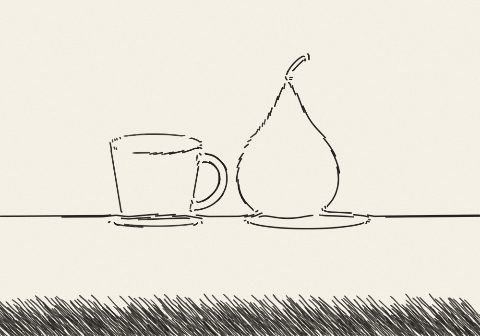
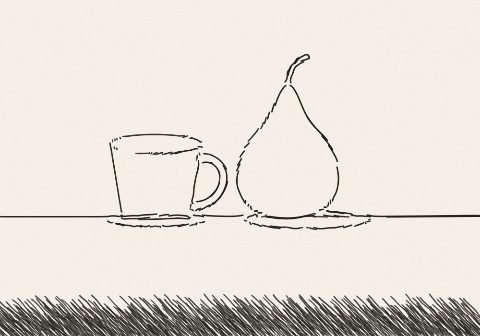
큰 사진 보정: 고흐풍은 긴 소용돌이 획으로, 펜은 화가처럼 덩어리 단순화, 그림붓은 층마다 뭉갠 목표를 본다
사용자 원본 크기 사진(1100px 로 축소)에서 고흐풍이 비늘 모자이크, 리천 펜화가 고리 부스러기로 나온 문제.
- 그림붓(담채·유화·임파스토): 층마다 목표 색을 붓 크기만큼 뭉갠 것을 본다(Hertzmann). 잔결에서는 넓은 범위
  방향(반경 28)을 따라 큰 흐름을 타고, 임파스토는 색 차 문턱 110·최소 네 걸음으로 긴 획이 된다
- 펜: 잔결 영역을 크게 뭉개고 덩어리 대비만 키운다. 잔결 안의 획은 짧지만 화면 크기에 비례, 방향은 기준 각도 ±0.6
  또는 확실한 지역 방향. 고리선은 중간 톤에서 30% 만
- 포스터라이즈·어두운 곳만 남기기·뭉갠 톤 경계 윤곽·적응형 여백 문턱은 시험 후 뺐다 (위장 무늬·언덕 비워짐). CLAUDE.md 에 기록
- 갤러리 예시 그림 재생성

Claude-Session: https://claude.ai/code/session_01Hvnc9GgokccTnGmXxLxTkb

diff --git a/src/render.ts b/src/render.ts
@@ -209,7 +209,7 @@ function manualField(guides: DirectionGuide[], radiusPct: number, w: number, h: 
 }
 
 /** aniso: 넓은 범위(반경 28)의 방향 확실성 — 잔결이라도 물결처럼 한 방향으로 흐르면 높다 (잎 뭉치는 낮다) */
-interface Field { tx: Float32Array; ty: Float32Array; coh: Float32Array; man: Float32Array; aniso: Float32Array; raw: Float32Array }
+interface Field { tx: Float32Array; ty: Float32Array; coh: Float32Array; man: Float32Array; aniso: Float32Array; raw: Float32Array; /** 넓은 범위(반경 28) 방향 — 그림붓이 잔결을 무시하고 큰 흐름을 따를 때 */ ctx: Float32Array; cty: Float32Array }
 
 /**
  * 면의 방향장 (DAP 의 Feature Follow): 세 채널 구조 텐서로 각 화소 주변의 지배적 경계 방향을 구한다.
@@ -223,10 +223,12 @@ function orientationField(grads: Array<{ gx: Float32Array; gy: Float32Array }>, 
   const fine = [boxBlur(jxx, w, h, 7), boxBlur(jyy, w, h, 7), boxBlur(jxy, w, h, 7)];
   const coarse = [boxBlur(jxx, w, h, 28), boxBlur(jyy, w, h, 28), boxBlur(jxy, w, h, 28)];
   const tx = new Float32Array(N), ty = new Float32Array(N), coh = new Float32Array(N), man = new Float32Array(N), aniso = new Float32Array(N), raw = new Float32Array(N);
+  const ctxA = new Float32Array(N), ctyA = new Float32Array(N);
   for (let i = 0; i < N; i++) {
     const ca = coarse[0][i] - coarse[1][i], cb = 2 * coarse[2][i], ce = coarse[0][i] + coarse[1][i];
     const cc = ce > 0.004 ? Math.sqrt(ca * ca + cb * cb) / (ce + 1e-4) : 0;
     aniso[i] = cc;
+    { const thc = 0.5 * Math.atan2(cb, ca) + Math.PI / 2; ctxA[i] = Math.cos(thc); ctyA[i] = Math.sin(thc); }
     let a = fine[0][i] - fine[1][i], b = 2 * fine[2][i], e = fine[0][i] + fine[1][i];
     let c = e > 0.02 ? Math.sqrt(a * a + b * b) / (e + 1e-4) : 0;
     raw[i] = c; // 잔결 억제 전의 지역 확실성 (잎 뭉치 안의 짧은 획 방향에 씀)
@@ -245,7 +247,7 @@ function orientationField(grads: Array<{ gx: Float32Array; gy: Float32Array }>, 
     tx[i] = Math.cos(th); ty[i] = Math.sin(th);
     coh[i] = c;
   }
-  return { tx, ty, coh, man, aniso, raw };
+  return { tx, ty, coh, man, aniso, raw, ctx: ctxA, cty: ctyA };
 }
 
 /** 1차원 부드러운 난수 (-1~1): 가장자리 흐림의 불규칙한 경계에 씀 */
@@ -456,6 +458,8 @@ interface Ctx {
   tol: number;
   /** 시작점 i 의 획 색 */
   colorAt: (i: number) => RGB;
+  /** 그림붓(담채·유화·임파스토)인지 — 잔결을 무시하고 큰 흐름을 따른다 */
+  painty: boolean;
 }
 
 /**
@@ -466,10 +470,13 @@ function dirAt(c: Ctx, i: number, rot: number): [number, number] {
   const wf = Math.max(c.ff * c.field.coh[i], c.field.man[i]);
   let th: number;
   const tex = c.texture[i];
-  if (tex > 0.5 && c.field.man[i] < 0.1) {
+  if (c.painty && tex > 0.3 && c.field.man[i] < 0.1) {
+    // 그림붓: 잎 하나하나가 아니라 나무 덩어리·물결의 큰 흐름을 따른다 (고흐의 소용돌이). 흐름이 없으면 기준 각도 주변
+    th = c.field.aniso[i] > 0.12 ? Math.atan2(c.field.cty[i], c.field.ctx[i]) : c.base + (c.rng() - 0.5) * 0.8;
+  } else if (tex > 0.5 && c.field.man[i] < 0.1) {
     // 잔결(잎 뭉치): 짧은 획이 잎 무리의 지역 방향을 따르면 잎 질감이 된다. 방향이 없으면 기준 각도 주변에서 흩어진다
     const r = c.field.raw[i];
-    th = r > 0.35 ? Math.atan2(c.field.ty[i], c.field.tx[i]) : c.base + (c.rng() - 0.5) * 1.2;
+    th = r > 0.4 ? Math.atan2(c.field.ty[i], c.field.tx[i]) : c.base + (c.rng() - 0.5) * 0.6;
   } else if (wf < 0.12) th = c.base;
   else {
     const a2 = 2 * Math.atan2(c.field.ty[i], c.field.tx[i]), b2 = 2 * c.base;
@@ -589,7 +596,8 @@ function edgePass(c: Ctx, mag: Float32Array, mass: { mag: Float32Array; gx: Floa
   const maxLen = Math.min(w, h) * 0.35;
   const r = (lw * widthMul) / 2;
   // 잔결(나뭇잎)에서는 센 경계만 남기고, 대신 뭉갠 밝기의 경계(잎 뭉치의 덩어리 윤곽)를 살린다 — 리천 드로잉의 뭉게구름 같은 나무 윤곽
-  const strength = (i: number) => Math.max(mag[i] / (1 + 2.2 * texture[i]), chroma[i] * 1.3 / (1 + 1.2 * texture[i]));
+  const massMag = mass.mag;
+  const strength = (i: number) => Math.max(mag[i] / (1 + 2.2 * texture[i]), chroma[i] * 1.3 / (1 + 1.2 * texture[i]), 0 * massMag[i]);
   const mark = (x: number, y: number) => {
     const m = Math.max(1, Math.round(g * 0.5));
     for (let yy = Math.max(0, y - m); yy <= Math.min(h - 1, y + m); yy++) for (let xx = Math.max(0, x - m); xx <= Math.min(w - 1, x + m); xx++) done[yy * w + xx] = sid;
@@ -696,11 +704,11 @@ function sweep(c: Ctx, ref: Float32Array, R: number, sw: Sweep, T: number, L: nu
     if (sw.kind === 'scribble') { scribbleStroke(c, ref, x0, y0, len * 1.6); continue; }
     // pen 붓: 잔결(나뭇잎)은 획 대신 고리 선
     // 무작위성이 낮은(정돈된 손) 설정은 고리 대신 짧은 잎 획으로 잔결을 낸다 (세밀 펜화)
-    if (c.p.brush === 'pen' && !sw.rot && c.rnd >= 0.25 && c.texture[i0] > 0.45 && c.field.aniso[i0] < 0.45 && rng() < c.texture[i0] * 0.8) { loopStroke(c, ref, x0, y0, R); continue; }
+    if (c.p.brush === 'pen' && !sw.rot && c.rnd >= 0.25 && c.texture[i0] > 0.45 && c.field.aniso[i0] < 0.45 && ref[i0] > 0.25 && ref[i0] < 0.75 && rng() < 0.3) { loopStroke(c, ref, x0, y0, R); continue; }
     let Lc = Math.min(len, Math.min(w, h) * 0.14);
     // 방향이 없는 평탄한 곳(하늘·벽)은 길게. 잔결 영역은 짧게 (긴 줄이 생기면 풀밭처럼 보인다)
     if (c.field.coh[i0] < 0.15 && c.field.man[i0] < 0.1 && c.texture[i0] < 0.3) Lc *= 1.7;
-    else if (c.texture[i0] > 0.5) Lc = Math.min(Lc * 0.35, lw * 14);
+    else if (c.texture[i0] > 0.5) Lc = Math.min(Lc * 0.5, Math.max(lw * 14, Math.min(w, h) * 0.035));
     penStroke(c, ref, x0, y0, Lc, sw.rot ?? 0);
   }
 }
@@ -766,7 +774,8 @@ function washSweep(c: Ctx, want: Float32Array, R: number, T: number, soft: boole
       const xi = x | 0, yi = y | 0;
       if (xi < 0 || yi < 0 || xi >= w || yi >= h) break;
       const o = (yi * w + xi) * 3;
-      if (Math.abs(want[o] - col[0]) + Math.abs(want[o + 1] - col[1]) + Math.abs(want[o + 2] - col[2]) > 60) break;
+      // 다른 면으로 넘어가면 멈춘다. 임파스토는 문턱을 크게 두어 긴 소용돌이 획이 되고, 최소 네 걸음은 간다
+      if (s >= step * 4 && Math.abs(want[o] - col[0]) + Math.abs(want[o + 1] - col[1]) + Math.abs(want[o + 2] - col[2]) > (impasto ? 110 : 60)) break;
       const rad = oil ? R * 0.32 : R / 2;
       if (impasto) path.push(x, y, dx, dy); else if (tip) cv.dabTip(x, y, rad, dx, dy, tip); else cv.dab(x, y, rad, soft);
       const i = yi * w + xi;
@@ -826,6 +835,18 @@ function washTarget(img: RawImage, lum: Float32Array, white: number, w: number, 
     want[o] = paper[0] * (1 - op * (1 - tr)); want[o + 1] = paper[1] * (1 - op * (1 - tg)); want[o + 2] = paper[2] * (1 - op * (1 - tb));
   }
   return want;
+}
+
+/** RGB 배열(N×3) 블러 */
+function blurRGB(src: Float32Array, w: number, h: number, r: number): Float32Array {
+  if (r < 1) return src;
+  const N = w * h, out = new Float32Array(N * 3), ch = new Float32Array(N);
+  for (let k = 0; k < 3; k++) {
+    for (let i = 0; i < N; i++) ch[i] = src[i * 3 + k];
+    const b = boxBlur(ch, w, h, r);
+    for (let i = 0; i < N; i++) out[i * 3 + k] = b[i];
+  }
+  return out;
 }
 
 /** 캔버스를 조금 뭉갠다 (DAP 의 Reactor 'Shock Smooth': 젖은 밑칠끼리 번져 하나로 이어지는 느낌) */
@@ -921,8 +942,16 @@ export function renderDrawing(img: RawImage, opts: RenderOpts): RawImage {
     const d = (white - L) / white;
     target[i] = (0.06 + 0.84 * Math.pow(d, 1.1)) * (1 - texture[i] * 0.22);
   }
-  // 잔결 영역(나뭇잎)은 지역 대비를 키운다: 잎 무리의 밝은 덩어리와 그늘 덩어리가 갈라져야 나무로 읽힌다 (참고 펜화의 잎 무리)
-  {
+  const painty = p.brush === 'wash' || p.brush === 'oil' || p.brush === 'impasto';
+  if (!painty) {
+    // 펜: 사람 화가처럼 단순화한다. 잎 하나하나가 아니라 나무 덩어리의 톤을 본다 — 잔결 영역은 크게 뭉개고(세밀함이 낮을수록 더),
+    // 덩어리끼리의 대비를 키운 뒤 톤을 층 수만큼의 단계로 눌러 덩어리마다 고른 해칭이 들어가게 한다.
+    // (이걸 안 하면 실사의 빽빽한 숲이 고리·획 부스러기로 덮인 '그림이 아닌 것'이 된다.)
+    const rS = Math.max(2, Math.round(minSide * (0.008 + 0.03 * (1 - clamp(p.detail, 0, 100) / 100))));
+    const s1 = boxBlur(target, w, h, Math.max(1, Math.round(rS * 0.4))), s2 = boxBlur(target, w, h, rS * 2);
+    for (let i = 0; i < N; i++) target[i] = s1[i] * (1 - texture[i]) + s2[i] * texture[i];
+    // 잎 무리의 밝은 덩어리와 그늘 덩어리가 갈라져야 나무로 읽힌다 — 덩어리 크기(짧은 변/70)의 지역 대비를 키운다.
+    // 단계로 누르거나(포스터라이즈) 어두운 곳만 남기는 시도는 실사에서 섬 윤곽이 위장 무늬처럼 보여 뺐다.
     const local = boxBlur(target, w, h, Math.max(4, Math.round(minSide / 70)));
     for (let i = 0; i < N; i++) if (texture[i] > 0.3) target[i] = clamp(target[i] + (target[i] - local[i]) * 0.9 * texture[i], 0, 1);
   }
@@ -949,6 +978,7 @@ export function renderDrawing(img: RawImage, opts: RenderOpts): RawImage {
     base: (p.baseAngle * Math.PI) / 180,
     tol: 0.10 + 0.25 * (1 - acc),
     colorAt,
+    painty: p.brush === 'wash' || p.brush === 'oil' || p.brush === 'impasto',
   };
   const T = 0.03 + 0.28 * (1 - acc);
   const sizes = passSizes(p, minSide);
@@ -968,11 +998,13 @@ export function renderDrawing(img: RawImage, opts: RenderOpts): RawImage {
   // 2) 층: 큰 획 → 작은 획. 층마다 목표를 획 크기만큼 뭉갠 참조를 본다 (큰 획은 큰 형태만).
   if (p.brush === 'wash' || p.brush === 'oil' || p.brush === 'impasto') {
     const oil = p.brush !== 'wash';
-    const want = washTarget(img, lum, white, w, h, paper, opts.color, oil);
+    const want0 = washTarget(img, lum, white, w, h, paper, opts.color, oil);
     for (let k = 0; k < passes; k++) {
       const R = Math.max(4, sizes[k] * 1.3);
       // 임파스토는 테두리·능선 때문에 목표와 늘 조금 다르므로 문턱을 높여 같은 칸을 끝없이 덧칠하지 않게 한다
       const Tk = (4 + 10 * (1 - acc)) * (p.brush === 'impasto' ? 2.4 : 1);
+      // 층마다 목표를 붓 크기만큼 뭉갠 것을 본다 (Hertzmann): 큰 붓은 큰 색면만, 잎 하나하나에 걸려 짧게 끊기지 않는다
+      const want = blurRGB(want0, w, h, Math.round(R * (p.brush === 'impasto' ? 0.5 : 0.35)));
       if (oil) {
         stageLabel = k === 0 ? '밑칠 (큰 붓)' : k === passes - 1 ? '세부 (작은 붓)' : '중간 붓';
         washSweep(c, want, R, Tk, false, (f) => report(k, f));
@@ -1025,7 +1057,8 @@ export function renderDrawing(img: RawImage, opts: RenderOpts): RawImage {
   if (edges > 0) {
     const th = (0.30 - 0.20 * edges / 100) * (p.brush === 'wash' || p.brush === 'oil' || p.brush === 'impasto' ? 1.5 : 1);
     const widthMul = p.brush === 'contour' ? 1.15 : 1;
-    const mass = sobel(boxBlur(lum, w, h, Math.max(3, Math.round(minSide / 60))), w, h);
+    // 덩어리 윤곽: 펜은 단순화한 톤 지도의 경계(나무 덩어리의 뭉게구름 윤곽), 그림붓은 뭉갠 밝기의 경계
+    const mass = sobel(boxBlur(painty ? lum : target, w, h, painty ? Math.max(3, Math.round(minSide / 60)) : 2), w, h);
     stageLabel = '윤곽선';
     report(passes - 1, 1, true);
     edgePass(c, mag, mass, chromaEdgeMag(img, w, h), th, widthMul, p.brush === 'contour' ? 1 : 0.9);
